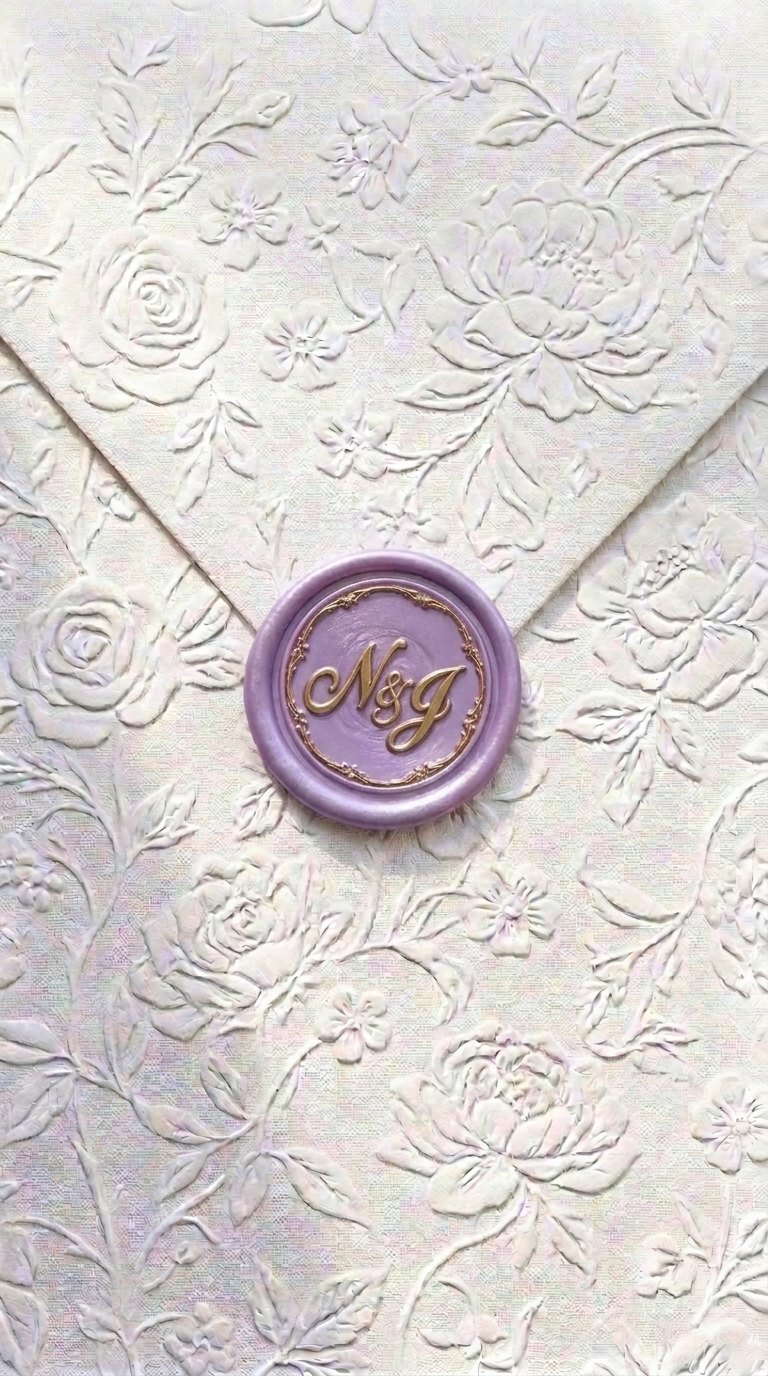
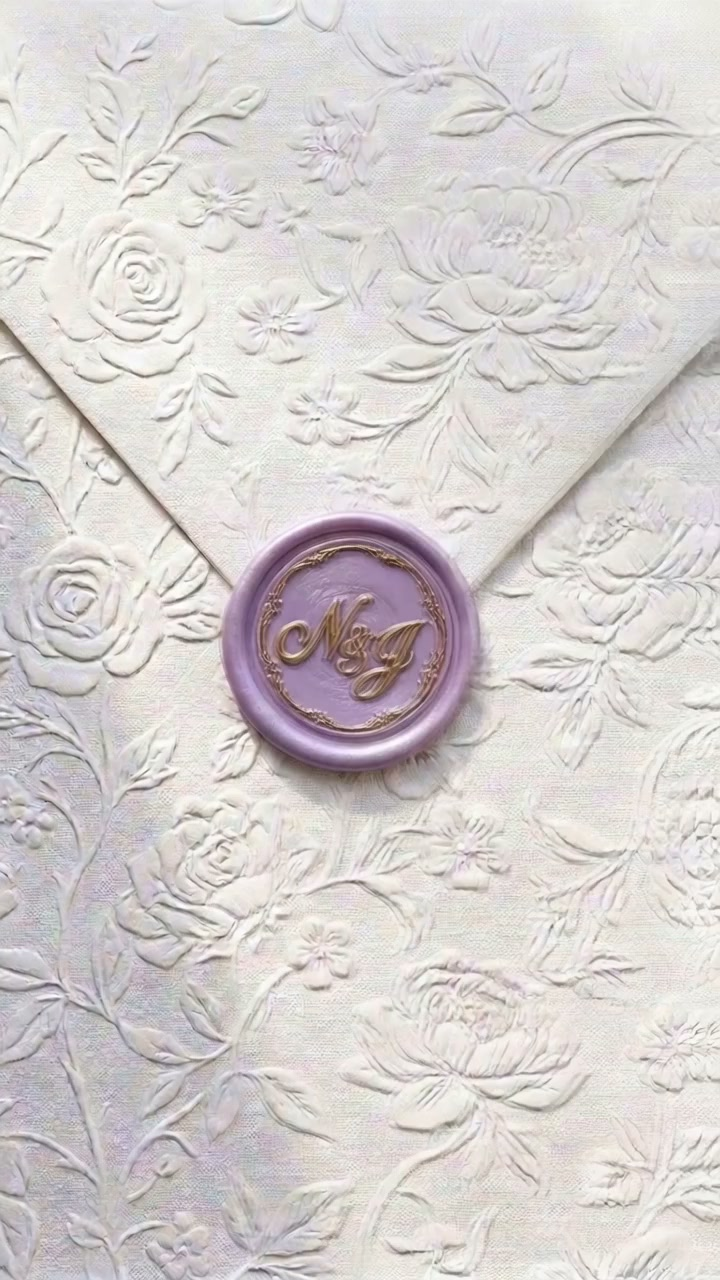
fix: bola de colores a evitar; foto del sobre = primer cuadro del video

diff --git a/index.html b/index.html
@@ -833,6 +833,20 @@ body,button,input{font-variant-numeric:lining-nums}
 .c3d-floor::after{content:'';position:absolute;inset:0;background:linear-gradient(100deg,transparent 35%,rgba(255,245,220,.45) 50%,transparent 65%);background-size:260% 100%;animation:floorSheen 7s ease-in-out infinite}
 @keyframes floorSheen{0%{background-position:130% 0}100%{background-position:-40% 0}}
 @media(prefers-reduced-motion:reduce){.c3d-floor::after{animation:none}}
+
+/* Colores a evitar: una sola bola que cambia de color */
+.dc-orb-wrap{display:flex;flex-direction:column;align-items:center;gap:14px;margin:18px auto 0}
+.dc-orb{position:relative;width:74px;height:74px;border-radius:50%;background:#FFFFED;border:1.5px solid rgba(42,11,51,.22);overflow:hidden;animation:orbColor 12s ease-in-out infinite,swGlow 3s ease-in-out infinite}
+.dc-orb::before{content:'';position:absolute;inset:0;border-radius:50%;background:radial-gradient(circle at 32% 28%,rgba(255,255,255,.75),transparent 46%),linear-gradient(120deg,transparent 35%,rgba(255,255,255,.55) 50%,transparent 65%);background-size:100% 100%,300% 100%;animation:swSheen 4s ease-in-out infinite}
+.dc-orb::after{content:'';position:absolute;inset:-7px;border-radius:50%;border:1px dashed rgba(42,11,51,.3)}
+@keyframes orbColor{0%,18%{background-color:#FFFFED}25%,43%{background-color:#FFFFFF}50%,68%{background-color:#B80009}75%,93%{background-color:#730076}100%{background-color:#FFFFED}}
+.dc-orb-names{position:relative;display:block;width:160px;height:26px}
+.dc-orb-names span{position:absolute;inset:0;text-align:center;font-family:'Cormorant Garamond',serif;font-weight:600;font-size:19px;letter-spacing:.14em;text-transform:uppercase;color:var(--text);opacity:0;animation:orbName 12s ease-in-out infinite}
+.dc-orb-names span:nth-child(2){animation-delay:3s}
+.dc-orb-names span:nth-child(3){animation-delay:6s}
+.dc-orb-names span:nth-child(4){animation-delay:9s}
+@keyframes orbName{0%{opacity:0;transform:translateY(6px)}4%,20%{opacity:1;transform:none}25%,100%{opacity:0;transform:translateY(-6px)}}
+@media(prefers-reduced-motion:reduce){.dc-orb,.dc-orb::before{animation:none}.dc-orb-names{height:auto;width:auto}.dc-orb-names span{position:static;opacity:1;animation:none;display:inline;margin:0 6px;font-size:16px}}
 /* 10. Script/foil sin cortes */
 .heading .w,.heading-sm .w{padding:.22em .45em;margin:-.22em -.45em;line-height:1.25}
 .foil-txt,.env-title{padding:.22em .45em;margin-left:-.45em;margin-right:-.45em;margin-top:-.22em;margin-bottom:-.22em;line-height:1.25;-webkit-box-decoration-break:clone;box-decoration-break:clone}
@@ -851,8 +865,8 @@ body,button,input{font-variant-numeric:lining-nums}
 <div id="petals"></div>
 
 <div id="envelope-screen">
-  <img id="envImage" src="sobre.jpg" alt="Invitación Norma y Jorge" style="opacity:0">
-  <video id="envVideo" src="apertura.mp4?v=3" muted playsinline preload="auto"></video>
+  <img id="envImage" src="sobre.jpg?v=3" alt="Invitación Norma y Jorge" style="opacity:0">
+  <video id="envVideo" src="apertura.mp4?v=3" poster="sobre.jpg?v=3" muted playsinline preload="auto"></video>
   <div class="env-tap" id="envTap">Toca para abrir</div>
 </div>
 
@@ -1039,11 +1053,9 @@ body,button,input{font-variant-numeric:lining-nums}
 
     <div class="dc-avoid-block">
       <p class="dc-avoid">Por favor evita estos colores</p>
-      <div class="dc-swatches">
-        <span class="dc-sw"><span class="dc-swatch-dot" style="background:#FFFFED;border:1.5px solid rgba(42,11,51,.3)"></span><span>Marfil</span></span>
-        <span class="dc-sw"><span class="dc-swatch-dot" style="background:#FFFFFF;border:1.5px solid rgba(42,11,51,.3)"></span><span>Blanco</span></span>
-        <span class="dc-sw"><span class="dc-swatch-dot" style="background:#B80009"></span><span>Rojo</span></span>
-        <span class="dc-sw"><span class="dc-swatch-dot" style="background:#730076"></span><span>Morado</span></span>
+      <div class="dc-orb-wrap" role="img" aria-label="Colores a evitar: marfil, blanco, rojo y morado">
+        <span class="dc-orb" aria-hidden="true"></span>
+        <span class="dc-orb-names" aria-hidden="true"><span>Marfil</span><span>Blanco</span><span>Rojo</span><span>Morado</span></span>
       </div>
       <p class="dc-note" style="margin:22px auto 0;max-width:300px">Reservamos estos tonos para los novios. ¡Gracias por respetarlo!</p>
     </div>
@@ -1319,9 +1331,11 @@ function initEnvelope(){
     if(tapped)return;tapped=true;e.preventDefault();
     if(typeof window._startAudio==='function')window._startAudio();
     gsap.to('#envTap',{opacity:0,duration:.3});
-    envVideo.load();
     var playProm=envVideo.play();
-    gsap.fromTo(envVideo,{opacity:0},{opacity:1,duration:.45,delay:.05});
+    // la foto es el primer cuadro del video: se cambia sin fundido cuando ya hay imagen en movimiento
+    var shown=false;function showVid(){if(shown)return;shown=true;envVideo.style.opacity='1';}
+    envVideo.addEventListener('timeupdate',function(){if(envVideo.currentTime>0.04)showVid();});
+    envVideo.addEventListener('playing',function(){setTimeout(showVid,60);},{once:true});
     if(playProm!==undefined){playProm.catch(function(){finish();});}
     envVideo.addEventListener('timeupdate',function(){if(envVideo.currentTime>=3.5)finish();});
     envVideo.addEventListener('ended',finish,{once:true});
